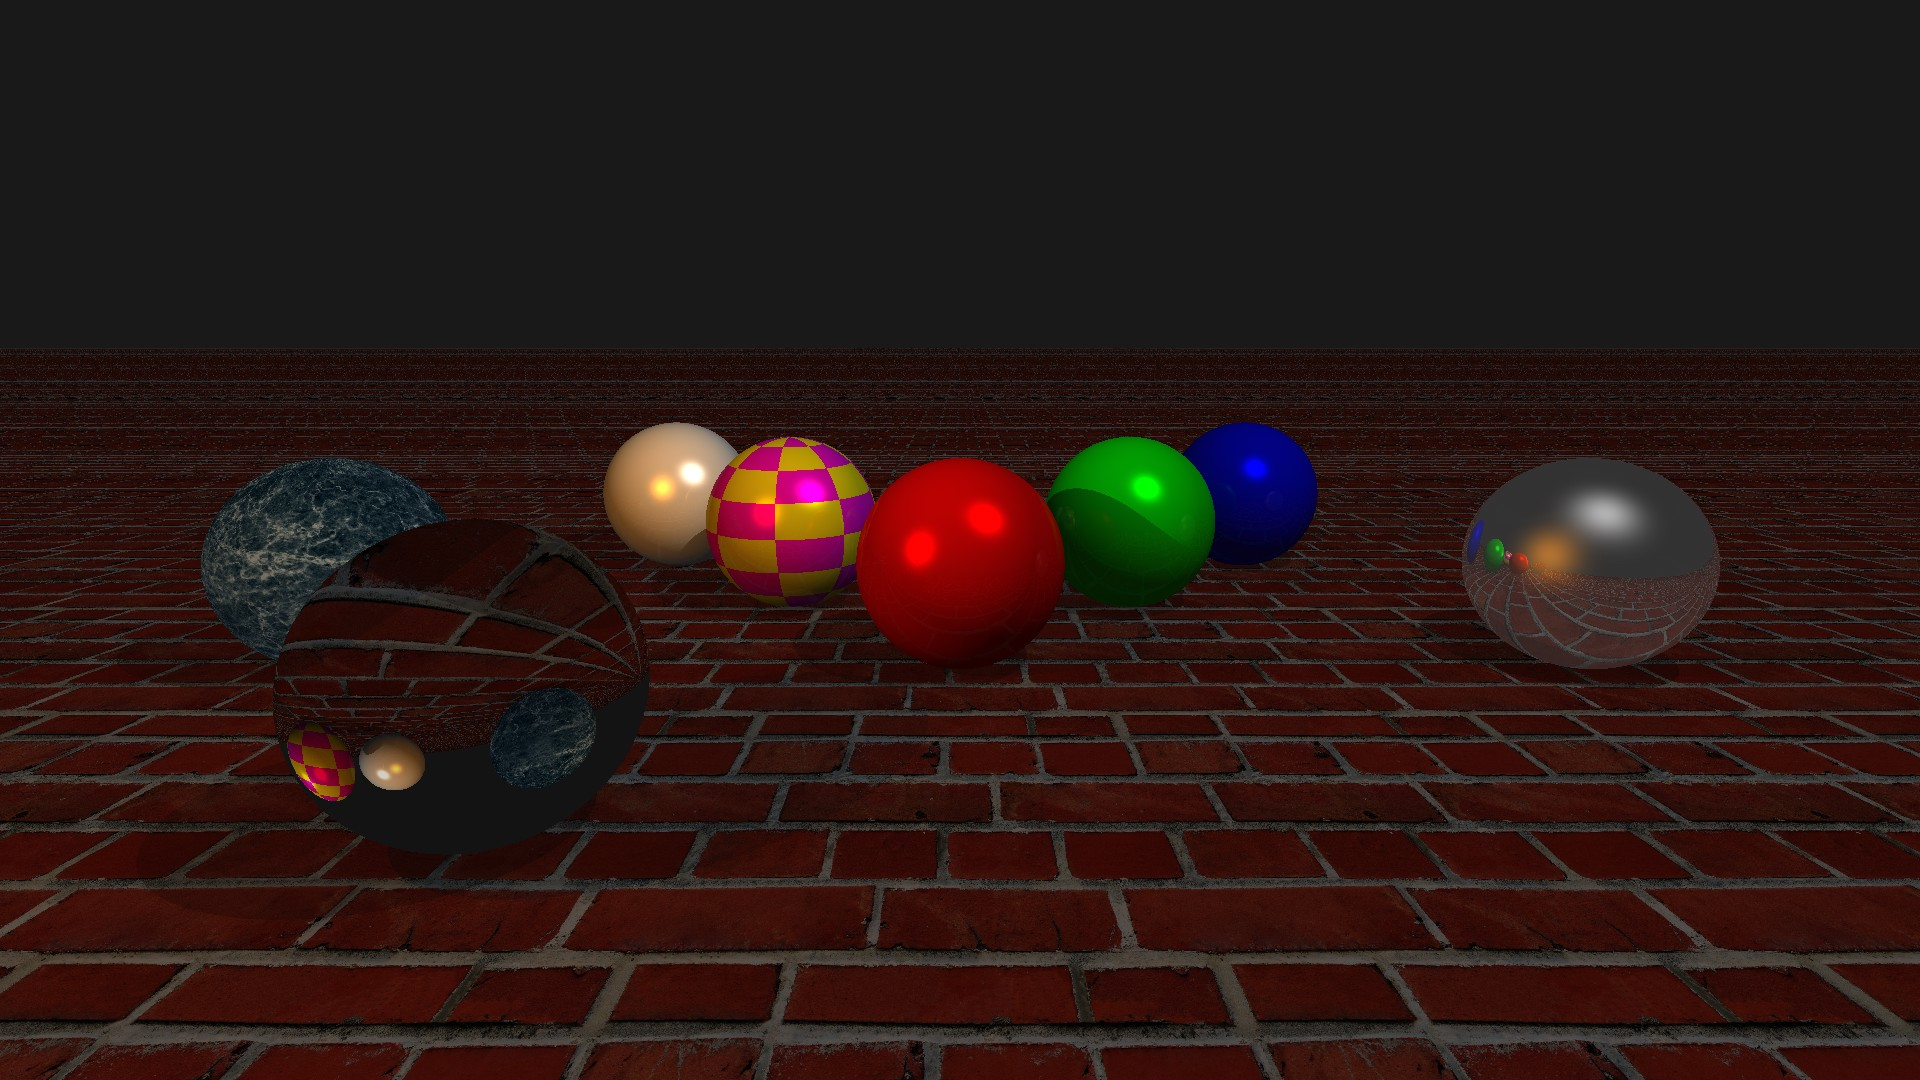
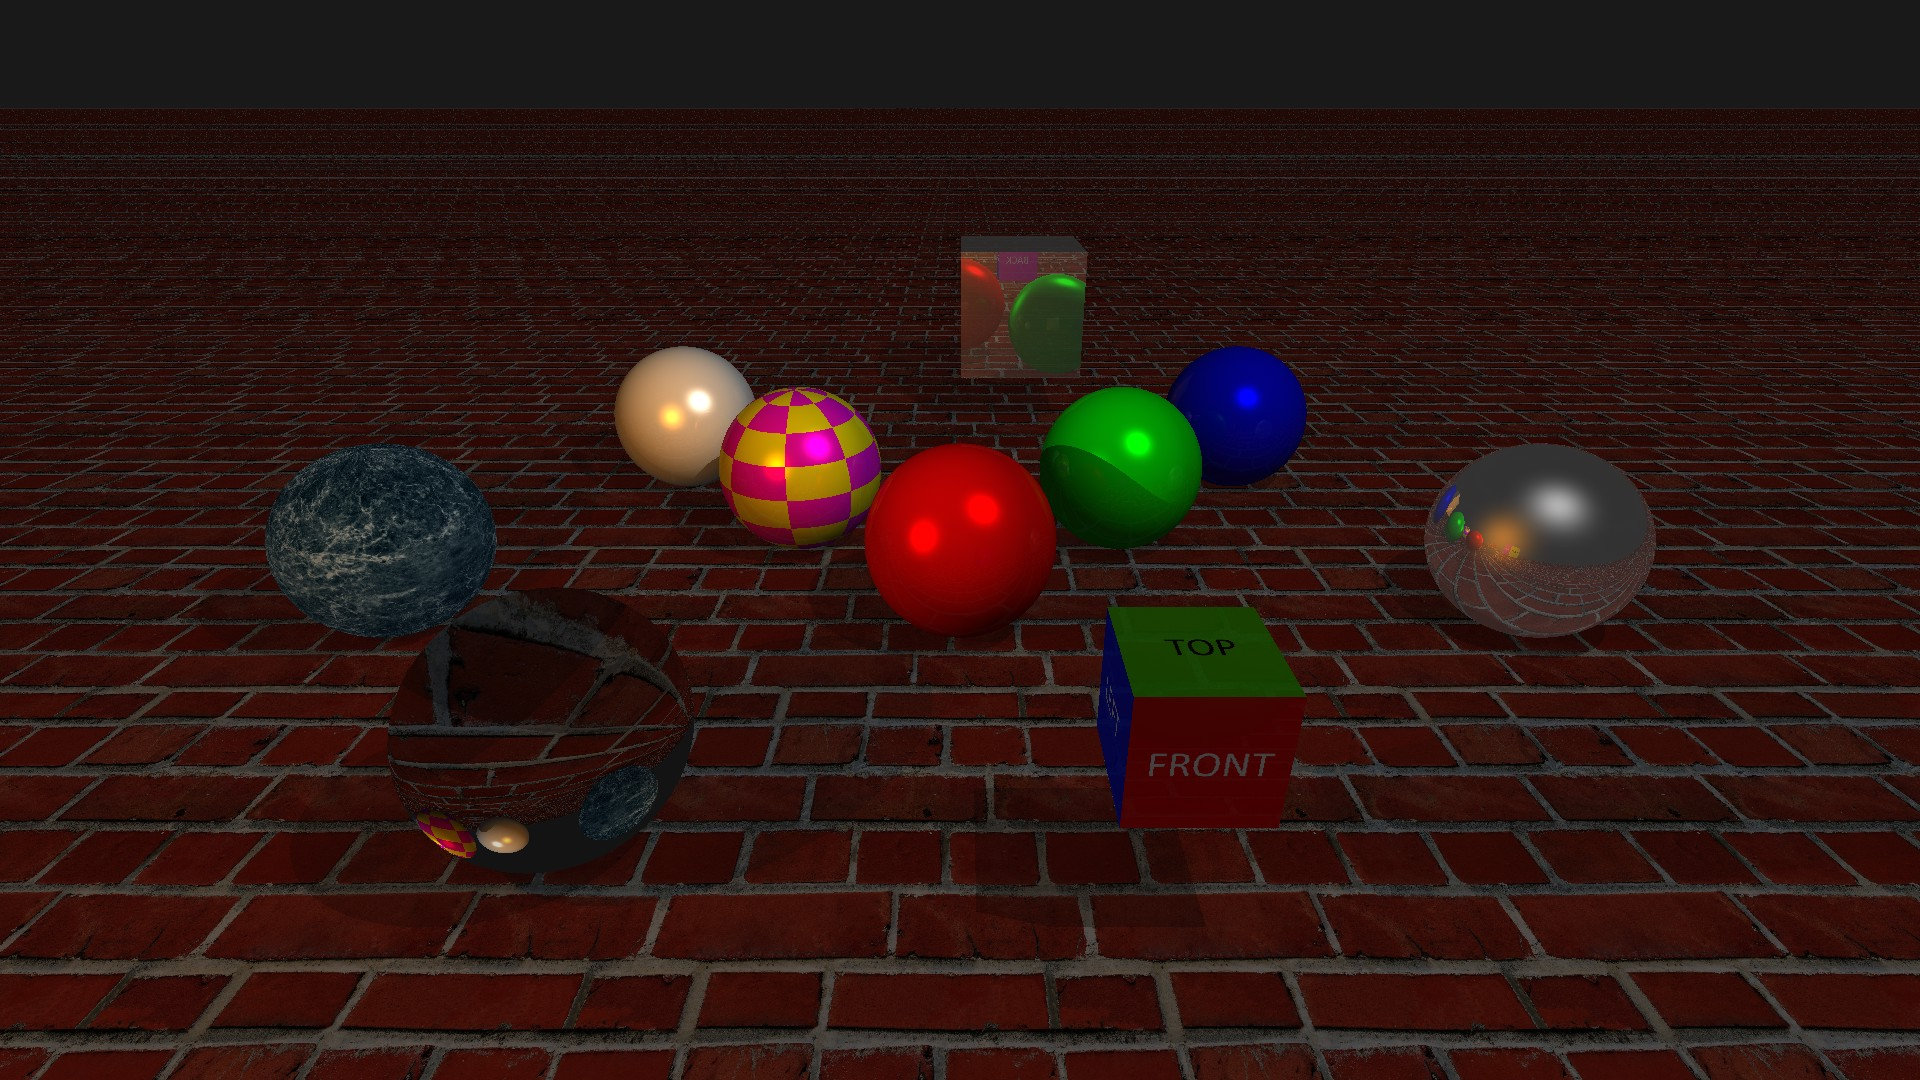
Update example scene.

diff --git a/RayTracer/ExampleScene.cpp b/RayTracer/ExampleScene.cpp
@@ -126,7 +126,7 @@ Scene ExampleScene::Build()
 		std::make_unique<SphereObject>(
 			/* Position: */					Vector(-6, 0, 0),
 			/* Radius: */					1,
-			/* Texture: */					MakeImageTexture("Assets/Asphalt.jpg"),
+			/* Texture: */					MakeImageTexture("Assets/Marble.jpg"),
 			/* Material: */					Material{
 				.ambient = 0.3,
 				.diffuse = 0.15,
@@ -152,16 +152,27 @@ Scene ExampleScene::Build()
 	);
 	scene.objects.push_back(
 		std::make_unique<BoxObject>(
-			/* Position: */					Vector(6, 0, 6),
+			/* Position: */					Vector(0, 0, 6),
 			/* Size: */						Vector(2, 2, 2),
+			/* Texture: */					std::make_shared<SolidTexture>(Palette::kWhite),
+			/* Material: */					Material{
+				.ambient = 0.1,
+				.diffuse = 0.0,
+				.specular = 0.5,
+				.reflectivity = 0.7
+			}
+		)
+	);
+	scene.objects.push_back(
+		std::make_unique<BoxObject>(
+			/* Position: */					Vector(1, 0, -4),
+			/* Size: */						Vector(1, 1, 1),
 			/* Texture: */					MakeImageTexture("Assets/Cube.png"),
 			/* Material: */					Material{
-				.ambient = 0.3,
-				.diffuse = 0.4,
-				.specular = 0.8,
-				.reflectivity = 0.2,
-				.refractivity = 0.0,
-				.refractionIndex = 0,
+				.ambient = 0.25,
+				.diffuse = 0.0,
+				.specular = 0.5,
+				.reflectivity = 0.0
 			}
 		)
 	);
